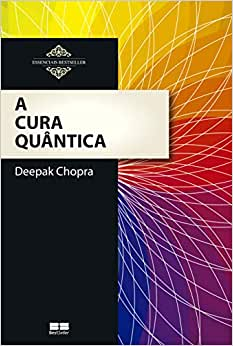
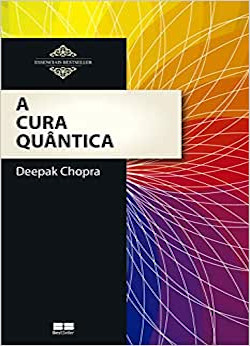
Atualizações

diff --git a/js/controle2.js b/js/controle2.js
@@ -1,0 +1,191 @@
+window.onload=function(){
+
+    // Controle sobre Input type number
+
+    let inputNumber=document.querySelector("#qtd_telas")
+    let resultadoTelas=document.querySelector("#resultado_telas")
+    let resultadoTelas2=document.querySelector("#resultado_telas2")    
+    let btCalcular=document.querySelector("#bt_calcular")
+
+    function calcular(){
+        resultadoTelas.innerHTML="Valor sem acréscimo - R$ " + (inputNumber.value * 9.9).toFixed(2).replace(".", ",")
+    }
+
+    function calcularPorcentagem(){
+        let pct = (inputNumber.value * 9.9) * 0.07
+        if (inputNumber.value == 1){
+            resultadoTelas2.innerHTML="Não há acréscimo"
+        }else{
+            resultadoTelas2.innerHTML="Com acréscimo de 7% - R$ " + (inputNumber.value * 9.9 + pct).toFixed(2).replace(".", ",")
+        }
+    }
+
+    inputNumber.addEventListener('change', calcular) // Calcula o valor ao digitar
+    inputNumber.addEventListener('keyup', calcular) // Calcula o valor ao mudar o campo na setinha
+    btCalcular.addEventListener('click', calcularPorcentagem) // Calcula o valor com acréscimo ao clicar no botão
+
+    // Controle sobre Select
+
+    let categorias=document.querySelector("#categorias")
+    let resultadoCategorias=document.querySelector("#resultado_categorias")
+    let boxInfo=document.querySelector("#box_info")
+
+    function exibeInfo(foto){
+        let img = new Image()
+        img.src=foto
+        img.className='w-75 vh-10'
+        boxInfo.children.length > 0 ? boxInfo.removeChild(boxInfo.firstChild) : null
+        //document.querySelector("#box_info").innerHTML=''
+        boxInfo.appendChild(img)
+        console.log(boxInfo.firstChild)
+    }
+
+    function exibiCategorias(){
+        resultadoCategorias.innerHTML=categorias.value
+        switch(categorias.selectedIndex){
+            case 0 : boxInfo.children.length > 0 ? boxInfo.removeChild(boxInfo.firstChild) : null
+            break
+            case 1 : exibeInfo('imagens/quem-somos-nos.jpg')
+            break
+            case 2 : exibeInfo('imagens/cura-quantica.jpg')
+            break
+            case 3 : exibeInfo('imagens/mick.jpg')
+            break
+        }
+        //resultadoCategorias.innerHTML=categorias.selectedIndex
+    }
+
+    categorias.addEventListener('change',exibiCategorias)
+
+
+    // Objetos Javascript (Propriedade=Variáveis, Métodos=Funções)
+
+    // Exemplo 1 - Declaração direta
+    let movel={
+        nome:"Sofá",
+        lugares:3
+    }
+    console.log(movel.nome) // Sofá
+    console.log(movel.constructor) // Object
+
+    // Exemplo 2 - Recuperação por retorno
+    function animal (especie, porte, nome){
+        return{
+            _especie:especie,
+            _porte:porte,
+            _nome:nome
+        }
+    }
+
+    let mike= animal("Yorkshire", "pequeno", "Mike")
+    console.log("Meu pet se chama " + mike._nome + " é da raça " + mike._especie + " e seu porte é " + mike._porte)
+    console.log(mike.constructor)
+
+    // Exemplo 3 - Herança
+    function Produto(nome, tipo){
+        this._nome=nome
+        this._tipo=tipo
+    }
+
+    function MaquinaCafe(cor, voltagem){
+        this._cor=cor
+        this._voltagem=voltagem
+    }
+
+    // nova instância
+    let produto_1 = new Produto("Geladeira", "Eletrodoméstico")
+    let maquinaCafe_1 = new MaquinaCafe("vermelha", "220V")
+    console.log(produto_1 instanceof MaquinaCafe) // false
+    console.log(produto_1 instanceof Produto) // true
+    console.log(produto_1._nome)
+    console.log(produto_1.constructor)
+
+    // Classes em Javascript
+
+    // Exemplo 1
+    class Pessoa {
+        constructor(nome, idade){
+            this._nome = nome
+            this._idade = idade
+        }
+    }
+
+    let funcionario_1 = new Pessoa("Nelio", 44)
+    console.log('Meu nome é ' + funcionario_1._nome + " e tenho " + funcionario_1._idade + ' anos')
+
+    // Exemplo 2
+    class Carro{ // Executa imediatamente ao utilizar a classe 
+        constructor(modelo, ano){
+            this._modelo = modelo
+            this._ano = ano
+        }
+        acessorios(){ // Método precisa ser invocado
+            let bancoDeCouro = true
+            return bancoDeCouro
+        }
+        km(x){
+            return x
+        }
+    }
+
+    let carro_1 = new Carro('BMW', 2015)
+    let km = carro_1.km(80000)
+    console.log(carro_1._modelo, carro_1.acessorios() ? "tem banco de couro" : " não tem banco de couro", 'e está com ' + km + 'km rodados')
+
+    // Exemplo 3 - Extends
+    class Mercadoria{
+        constructor(tipo, modelo){
+            this._tipo = tipo
+            this._modelo = modelo
+        }
+        info(){
+            return 'Eu vendo ' + this._tipo + ', modelo ' + this._modelo
+        }
+    }
+
+    class Fabricante extends Mercadoria{
+        constructor(nome, tipo, modelo, regiao){
+            super(tipo, modelo) // Recupera a informação da classe Mercadoria
+            this._nome = nome
+            this._regiao = regiao
+        }
+        apresentacao(){
+            return 'Eu sou a empresa ' + this._nome + '. ' + this.info() + '. Estou no ' + this._regiao 
+        }
+    }
+
+    let empresa = new Fabricante ('Apple','iPhone','12-S Pro','Vale do Silicio')
+    console.log(empresa.apresentacao())
+
+
+
+
+    // Sobre o LocalStorage - recuperar informação
+
+    let a=0
+    for(key in localStorage){}
+
+    console.log(localStorage.length)
+
+    for(i=0;i<localStorage.length;i++){
+        var chave = localStorage.key(i)
+        if (chave.includes('chamado')){
+            console.log(chave)
+            var valor = localStorage.getItem(chave).split(',')
+            console.log(valor)
+            for(y=0;y<valor.length;y++){
+                //console.log(valor[y])
+                //console.log("Nome: " + valor[0])
+            }
+            console.log("Id: " + chave[i])
+            console.log("Nome: " + valor[0])
+            console.log("Email: " + valor[1])
+            console.log("Telefone : " + valor[2])
+        }
+    }
+
+    //nome da chave
+    //chave.indexOf('chamado') == 0 ? console.log(chave) : null
+    //valor da chave
+    //chave.indexOf('chamado') == 0 ? console.log(localStorage.getItem.split(',').length) : null
+}

diff --git a/exemplos_controle.html b/exemplos_controle.html
@@ -1,0 +1,60 @@
+<!DOCTYPE html>
+<html lang="pt-br">
+<head>
+    <meta charset="UTF-8">
+    <meta http-equiv="X-UA-Compatible" content="IE=edge">
+    <meta name="viewport" content="width=device-width, initial-scale=1.0">
+    <link rel="stylesheet" href="https://cdn.jsdelivr.net/npm/bootstrap@4.6.1/dist/css/bootstrap.min.css">
+    <script src="https://cdn.jsdelivr.net/npm/jquery@3.6.0/dist/jquery.slim.min.js"></script>
+    <script src="https://cdn.jsdelivr.net/npm/popper.js@1.16.1/dist/umd/popper.min.js"></script>
+    <script src="https://cdn.jsdelivr.net/npm/bootstrap@4.6.1/dist/js/bootstrap.bundle.min.js"></script>
+    <script src="js/controle2.js"></script>
+    <title>Exemplos de Controle</title>
+</head>
+<body>
+    <div class="container row mx-auto">
+        <section class="col-sm-12 mt-3 mb-2">
+            <iframe class="w-100" width="560" height="315" src="https://www.youtube.com/embed/WFhksIa5tgM" title="YouTube video player" frameborder="0" allow="accelerometer; autoplay; clipboard-write; encrypted-media; gyroscope; picture-in-picture" allowfullscreen></iframe>
+        </section>
+    </div>
+    <div class="container row mx-auto">
+        <section class="col-sm-5 container mt-1 p-2" style="border-width: 1px; border-style: solid; border-radius: 12px;">
+            <div>
+                <form id="form_1" class="form w-50 mx-auto">
+                    <p class="text-center">Coloque a quantidade de telas</p>
+                    <input class="form-control" type="number" max="4" min="1" name="qtd_telas" id="qtd_telas" />
+                </form>
+                <div class="text-center mt-1">
+                    <p>Valor de 01 Tela: R$ 9,90</p>
+                    <p id="resultado_telas">xxxx</p>
+                    <p id="resultado_telas2">xxxx</p>
+                    <button id="bt_calcular" class="btn btn-info">Calcular Porcentagem</button>
+                </div>
+            </div>
+        </section>
+        <section class="col-sm-1 container"></section>
+        <section class="col-sm-5 container mt-1" style="border-width: 1px; border-style: solid; border-radius: 12px;">
+            <article>
+                <form id="form_2" class="form w-100">
+                    <section class="row mx-auto my-auto text-center">
+                        <div class="col-sm-6 mt-1">
+                            <label>Escolha uma categoria</label>
+                            <select name="categorias" id="categorias" class="form-control">
+                                <option>...</option>
+                                <option selected value="Ficção">Ficção</option>
+                                <option selected value="Suspense">Suspense</option>
+                                <option selected value="Aventura">Aventura</option>
+                            </select>
+                        </div>
+                        <div class="col-sm-6 mt-1 text-center">
+                            <p id="resultado_categorias">xxxx</p>
+                            <div id="box_info"></div>
+                        </div>
+                    </section>
+                </form>
+            </article>
+        </section>
+    </div>
+</body>
+
+</html>

diff --git a/js/teste_literals.js b/js/teste_literals.js
@@ -1,0 +1,101 @@
+// Literals
+
+// Sem Literals
+let nome = "Richard"
+let mensagem = "Olá, eu sou " + nome
+console.log(mensagem)
+
+// Exemplo 01
+let mensagem2 = `Olá ${nome}`
+console.log(mensagem2)
+
+// Exemplo 02
+let a = 10
+let b = 15
+let calculo = `O valor total é ${2 * (a+b)}`
+console.log(calculo)
+
+// Exemplo 03
+function info(){
+    return 'Hoje é segunda-feira'
+}
+let infoSemana = `Salve! ${info()}. Bora codar!`
+console.log(infoSemana)
+
+// Exemplo 04
+// Date - getDate() [0-6] 0=Domingo 6=Sabado
+// getMonth() [0-11] 0=Janeiro 11=Dezembro
+// getDate() - Dia de hoje
+// getHours() getMinutes() getSeconds() - Hora, minuto e segundo atuais
+// getFullYear() - Ano todo
+let tempo = new Date()
+let diaDaSemana=['Domingo','Segunda','Terça','Quarta','Quinta','Sexta','Sabado']
+let mesDoAno=['Janeiro','Fevereiro','Março','Abril','Maio','Junho','Julho','Agosto','Setembro','Outubro','Novembro','Dezembro']
+
+function infoParam(dia){
+    return `Hoje é ${dia}`
+}
+
+let infoSemanaParam = `Salve! ${infoParam('terça-feira')}.`
+console.log(infoSemanaParam)
+console.log(diaDaSemana[tempo.getDay()])
+
+// Formato data exemplo 01
+let saudacao = `Hoje é: ${diaDaSemana[tempo.getDay()]}, ${tempo.getDate()} de ${mesDoAno[tempo.getMonth()]} de ${tempo.getFullYear()}`
+document.querySelector("#p1").innerHTML = saudacao
+
+// Formato data exemplo 02
+function relogio(){
+    let tempo_1 = new Date()
+    let hora = tempo_1.getHours()
+    let minutos = tempo_1.getMinutes()
+    let segundos = tempo_1.getSeconds()
+    hora < 10 ? hora = `0${hora}` : null
+    minutos < 10 ? minutos = `0${minutos}` : null
+    segundos < 10 ? segundos = `0${segundos}` : null
+    console.log(hora, minutos, segundos)
+    document.querySelector("#p2").innerHTML = `Hora: ${hora}:${minutos}:${segundos}`
+}
+relogio()
+
+/* let tempo_intervalo = setInterval(function(){
+    relogio()
+},1000) */
+
+//let tempo_intervalo = setInterval(relogio,1000)
+
+// Exemplo 05
+let pessoa={
+    nome: "Tom Hanks"
+}
+let msgPessoa = `${pessoa.nome.toUpperCase()}, ator de cinema`
+console.log(msgPessoa)
+
+
+// ARROW Functions
+
+let treinamento = function(){
+    return "Javascript Back End!"
+}
+
+let treinamento_1 = () => {
+    return "Node Js!"
+}
+console.log(treinamento())
+
+let calculo_1 = (a, b) => a/b * 100
+console.log(calculo_1(10,5))
+
+// Sobre o THIS (Quando usado function tradicional o repasse é imediato)
+let viagem_0 = function(){
+document.querySelector("#p3").innerHTML += `Vou para o México, este evento foi dispara por: ${this}<br />`
+}
+
+// Sobre o THIS (Quando for arrow function não reconhece o elemento do clique (this) de imediato)
+let viagem = (el) => {
+document.querySelector("#p3").innerHTML += `Vou para o México, este evento foi disparado por: ${el}<br />`
+}
+
+window.addEventListener("load", viagem(this))
+document.querySelector("#bt_teste").addEventListener("click", viagem_0)
+document.querySelector("#bt_teste").onclick = function(){viagem(this.id)}

diff --git a/exemplo_literals.html b/exemplo_literals.html
@@ -1,0 +1,23 @@
+<!DOCTYPE html>
+<html lang="pt-br">
+<head>
+    <meta charset="UTF-8">
+    <meta http-equiv="X-UA-Compatible" content="IE=edge">
+    <meta name="viewport" content="width=device-width, initial-scale=1.0">
+    <link rel="stylesheet" href="https://cdn.jsdelivr.net/npm/bootstrap@4.6.1/dist/css/bootstrap.min.css">
+    <script src="https://cdn.jsdelivr.net/npm/jquery@3.6.0/dist/jquery.slim.min.js"></script>
+    <script src="https://cdn.jsdelivr.net/npm/popper.js@1.16.1/dist/umd/popper.min.js"></script>
+    <script src="https://cdn.jsdelivr.net/npm/bootstrap@4.6.1/dist/js/bootstrap.bundle.min.js"></script>
+    <title>Exemplo Literals</title>
+</head>
+<body>
+    <h1>Exemplo Literals</h1>
+    <div id="box01">
+        <p id="p1"></p>
+        <p id="p2"></p>
+        <p id="p3"></p>
+        <button id="bt_teste" class="btn btn-info">Clique</button>
+    </div>
+</body>
+<script src="js/teste_literals.js"></script>
+</html>

diff --git a/node/info.js b/node/info.js
@@ -1,0 +1,9 @@
+const fs = require('fs') // file system, interage com arquivos do sistema
+
+fs.readFile('info.txt','utf-8',(err,data) => {
+    if(err){
+        console.log(err)
+        return
+    }
+    console.log(data)
+})

diff --git a/node/info_atualiza.js b/node/info_atualiza.js
@@ -1,0 +1,6 @@
+const fs = require('fs')
+
+fs.appendFile('info.txt',' Tomem bastante água!', function(err){
+    if (err) throw err
+    console.log('Arquivo atualizado!')
+})

diff --git a/node/ex01.js b/node/ex01.js
@@ -1,0 +1,1 @@
+console.log('Hello!')
